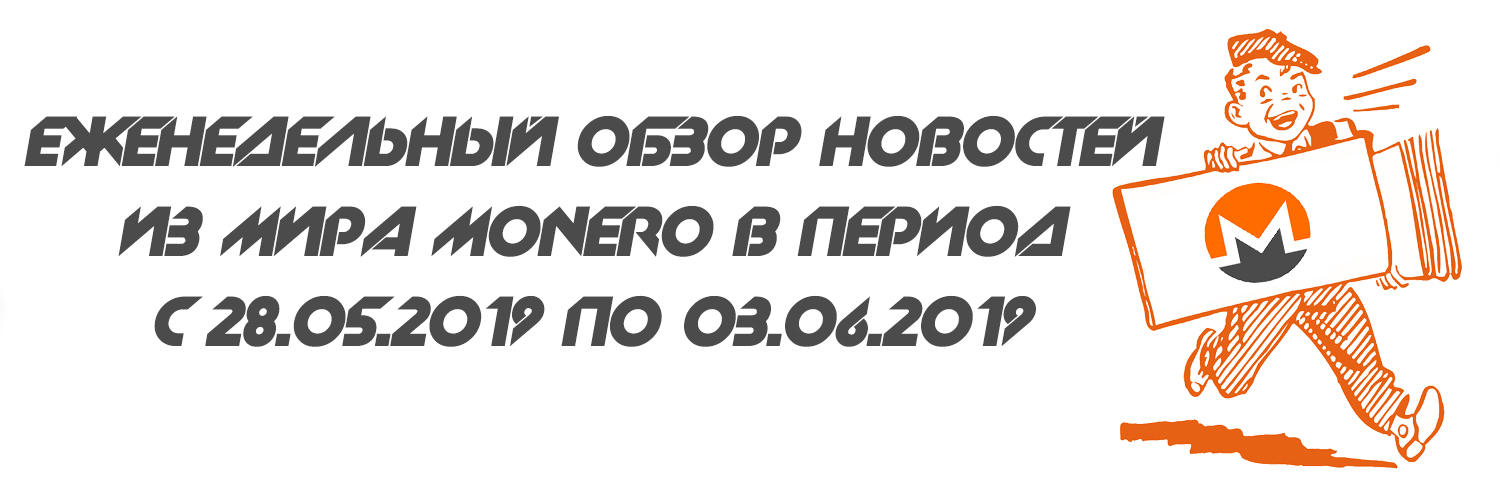
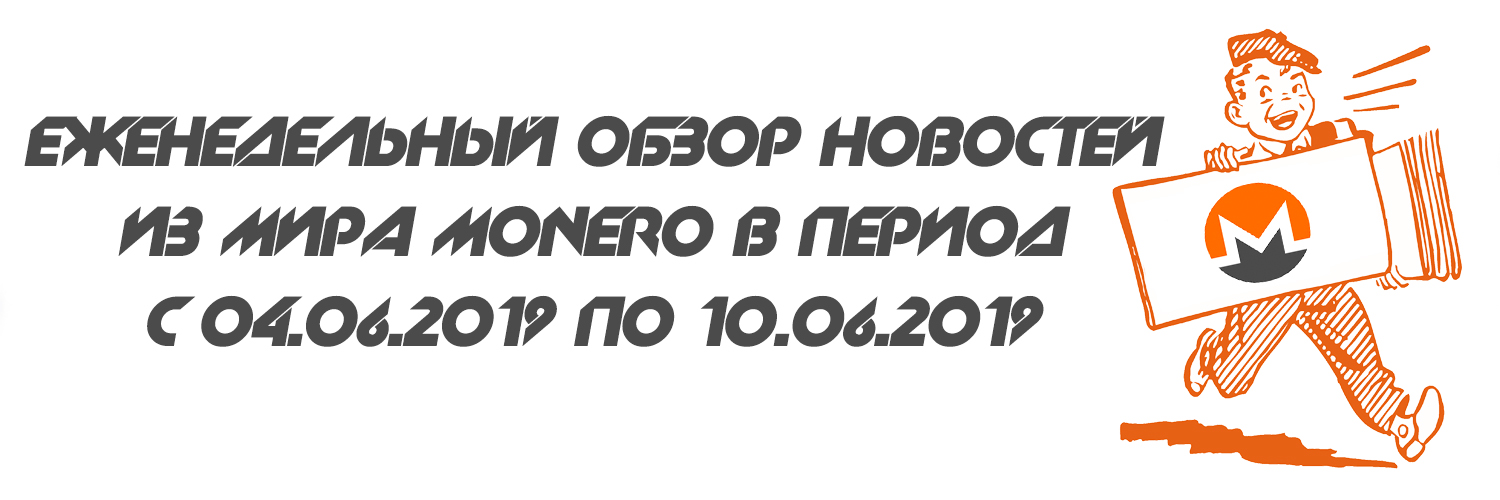
add news

Changed region(s): [[0.092, 0.57, 0.7053, 0.69]]

diff --git a/content/news/2019/06/11/1.md b/content/news/2019/06/11/1.md
@@ -1,0 +1,45 @@
+---
+title: "Новости Monero 04.06.2019 - 10.06.2019"
+date: 2019-06-11
+id: 1
+thumbnail: "news/2019/06/11/1-cover.jpeg"
+draft: false
+categories: [youtube news]
+---
+
+
+# Новости аудита RandomX
+
+Говард Чу, один из разработчиков Monero, [поделился информацией](https://www.reddit.com/r/Monero/comments/bmybxn/randomx_status_update/) в сабреддите о прогрессе аудита кода для нового алгоритма доказательства работы RandomX.
+
+[Trail Of Bits](https://www.trailofbits.com), одна из аудиторских компаний, [опубликовала](https://github.com/hyc/RandomxAudits/blob/master/Report-TrailOfBits.pdf) свой отчет о проделанной работе. Из трёх предложенных Trail Of Bits уровней проверки, был выбран самый быстрый — двухнедельный вариант.
+
+Хотелось бы отметить, что аудит RandomX Trail Of Bits был полностью [оплачен](https://xmr.ru/threads/938/) [Arweave](https://www.arweave.org) – системой для создания децентрализованных приложений, которая планирует реализовать данный алгоритм доказательства работы в своем проекте.
+
+По результатам аудита была выявлена одна проблема, которая уже устранена в новой версии под номером v1.0.3.
+
+# Грядущие улучшения и изменения в настройках подключения для GUI версии кошелька
+
+SamsungGalaxyPlayer опубликовал в сабреддите Monero [большой пост](https://www.reddit.com/r/Monero/comments/bysgry/discussion_gui_network_screen_designs/) о грядущих улучшениях и изменениях в настройках подключения для GUI версии кошелька.
+
+Из заявленных улучшений нас ждет возможность подключения через Tor, различные вариации I2P, dandelion++ и даже немного больше.
+
+Теперь при выборе подключения к узлам Monero вам будут расписаны сильные и слабые каждого из типа подключения. В дополнение у узлов Monero появится большая вариативность для настроек подключения к данным узлам и поддержание связи с другими узлами Monero.
+
+# Коротко и одной строкой
+
+CEO Binance, Чанпэн Чжао, [написал](https://twitter.com/cz_binance/status/1137054651474272256) в своём twitter аккаунте, что приятие закона о запрете криптовалют в Индии подтолкнёт спрос на анонимные криптовалюты.
+
+Один из пользователей [поделился](https://bisq.community/t/dirty-btc-coins-on-the-xmr-market/7798) своей историей о том, что после обмена Monero на Bitcoin через децентрализованную криптовалютную биржу Bisq другие централизованные криптовалютные биржи, такие как Bitfinex и Poloniex посчитали данные средства «отмеченными» и попросили предоставить документы для подтверждения получения данных средств.
+
+Советуем обратить внимание на новый криптовалютынй кошелёк для Monero [Exa Wallet](https://wallet.exan.tech/). Exantech [реализовали](https://www.reddit.com/r/Monero/comments/bwase5/release_of_exa_wallet_mobile_wallet_with/) в своем кошельке полностью открытый исходный код, поддержку multisig транзакций, общие счета и возможность экспорта и импорта ключей из multisig CLI версии кошелька.
+
+[Опубликован](https://www.reddit.com/r/Monero/comments/bxxo7f/explore_the_expert_speakers_and_important_topics/) финальный список тем и выступающих на предстоящей Monero Konferenco 2019.
+
+На сайте getmonero в новостном блоге появилось [сообщение](https://web.getmonero.org/2019/06/04/Long-Payment-ID-Deprecation.html) от Риккардо Спаньи о том, что к концу этого года все сервисы и службы будут вынуждены перейти на интегрированные адреса или подадреса, в связи с полным отказом от использования идентификатора платежей.
+
+Взгляните на [список](https://ccs.getmonero.org/funding-required/) краудфандинговых проектов Monero, которые нуждаются в финансировании.
+
+---
+*Источник: [Новости Monero 04.06.2019 - 10.06.2019](https://youtu.be/oO6Yo4a-6jo)  
+Автор: [Mr. Pickles](https://xmr.ru/members/50/) (@v1docq47)*
